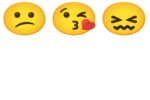
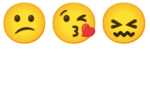
respect aspect ratio

Changed region(s): [[0.3467, 0.0, 0.64, 0.45], [0.6667, 0.0, 0.9867, 0.45], [0.0, 0.0, 0.32, 0.45]]

diff --git a/bitmap.go b/bitmap.go
@@ -15,6 +15,10 @@ import (
 )
 
 func (r *Renderer) drawBitmap(g shaping.Glyph, bitmap api.GlyphBitmap, img draw.Image, x, y float32) error {
+	// scaled glyph rect content
+	top := y - fixed266ToFloat(g.YBearing)*r.PixScale
+	bottom := top - fixed266ToFloat(g.Height)*r.PixScale
+	right := x + fixed266ToFloat(g.Width)*r.PixScale
 	switch bitmap.Format {
 	case api.BlackAndWhite:
 		rec := image.Rect(0, 0, bitmap.Width, bitmap.Height)
@@ -53,7 +57,7 @@ func (r *Renderer) drawBitmap(g shaping.Glyph, bitmap api.GlyphBitmap, img draw.
 			}
 		}
 
-		rect := image.Rect(int(x), int(y-fixed266ToFloat(g.YBearing)*r.PixScale), int(x+fixed266ToFloat(g.Width)*r.PixScale), int(y))
+		rect := image.Rect(int(x), int(top), int(right), int(bottom))
 		scale.NearestNeighbor.Scale(img, rect, sub, sub.Bounds(), draw.Over, nil)
 	case api.JPG, api.PNG, api.TIFF:
 		pix, _, err := image.Decode(bytes.NewReader(bitmap.Data))
@@ -61,7 +65,7 @@ func (r *Renderer) drawBitmap(g shaping.Glyph, bitmap api.GlyphBitmap, img draw.
 			return err
 		}
 
-		rect := image.Rect(int(x), int(y-fixed266ToFloat(g.YBearing)*r.PixScale), int(x+fixed266ToFloat(g.Width)*r.PixScale), int(y))
+		rect := image.Rect(int(x), int(top), int(right), int(bottom))
 		scale.BiLinear.Scale(img, rect, pix, pix.Bounds(), draw.Over, nil)
 	}
 

diff --git a/render_test.go b/render_test.go
@@ -155,6 +155,10 @@ func TestBitmapBaseline(t *testing.T) {
 
 	r.DrawString(text, img, face)
 
+	// w, _ := os.Create("testdata/bitmap_emoji.png")
+	// png.Encode(w, img)
+	// w.Close()
+
 	// compare against the reference
 	var pngBytes bytes.Buffer
 	png.Encode(&pngBytes, img)
@@ -164,7 +168,4 @@ func TestBitmapBaseline(t *testing.T) {
 		t.Error("unexpected image output")
 	}
 
-	// w, _ := os.Create("testdata/bitmap_emoji.png")
-	// png.Encode(w, img)
-	// w.Close()
 }
